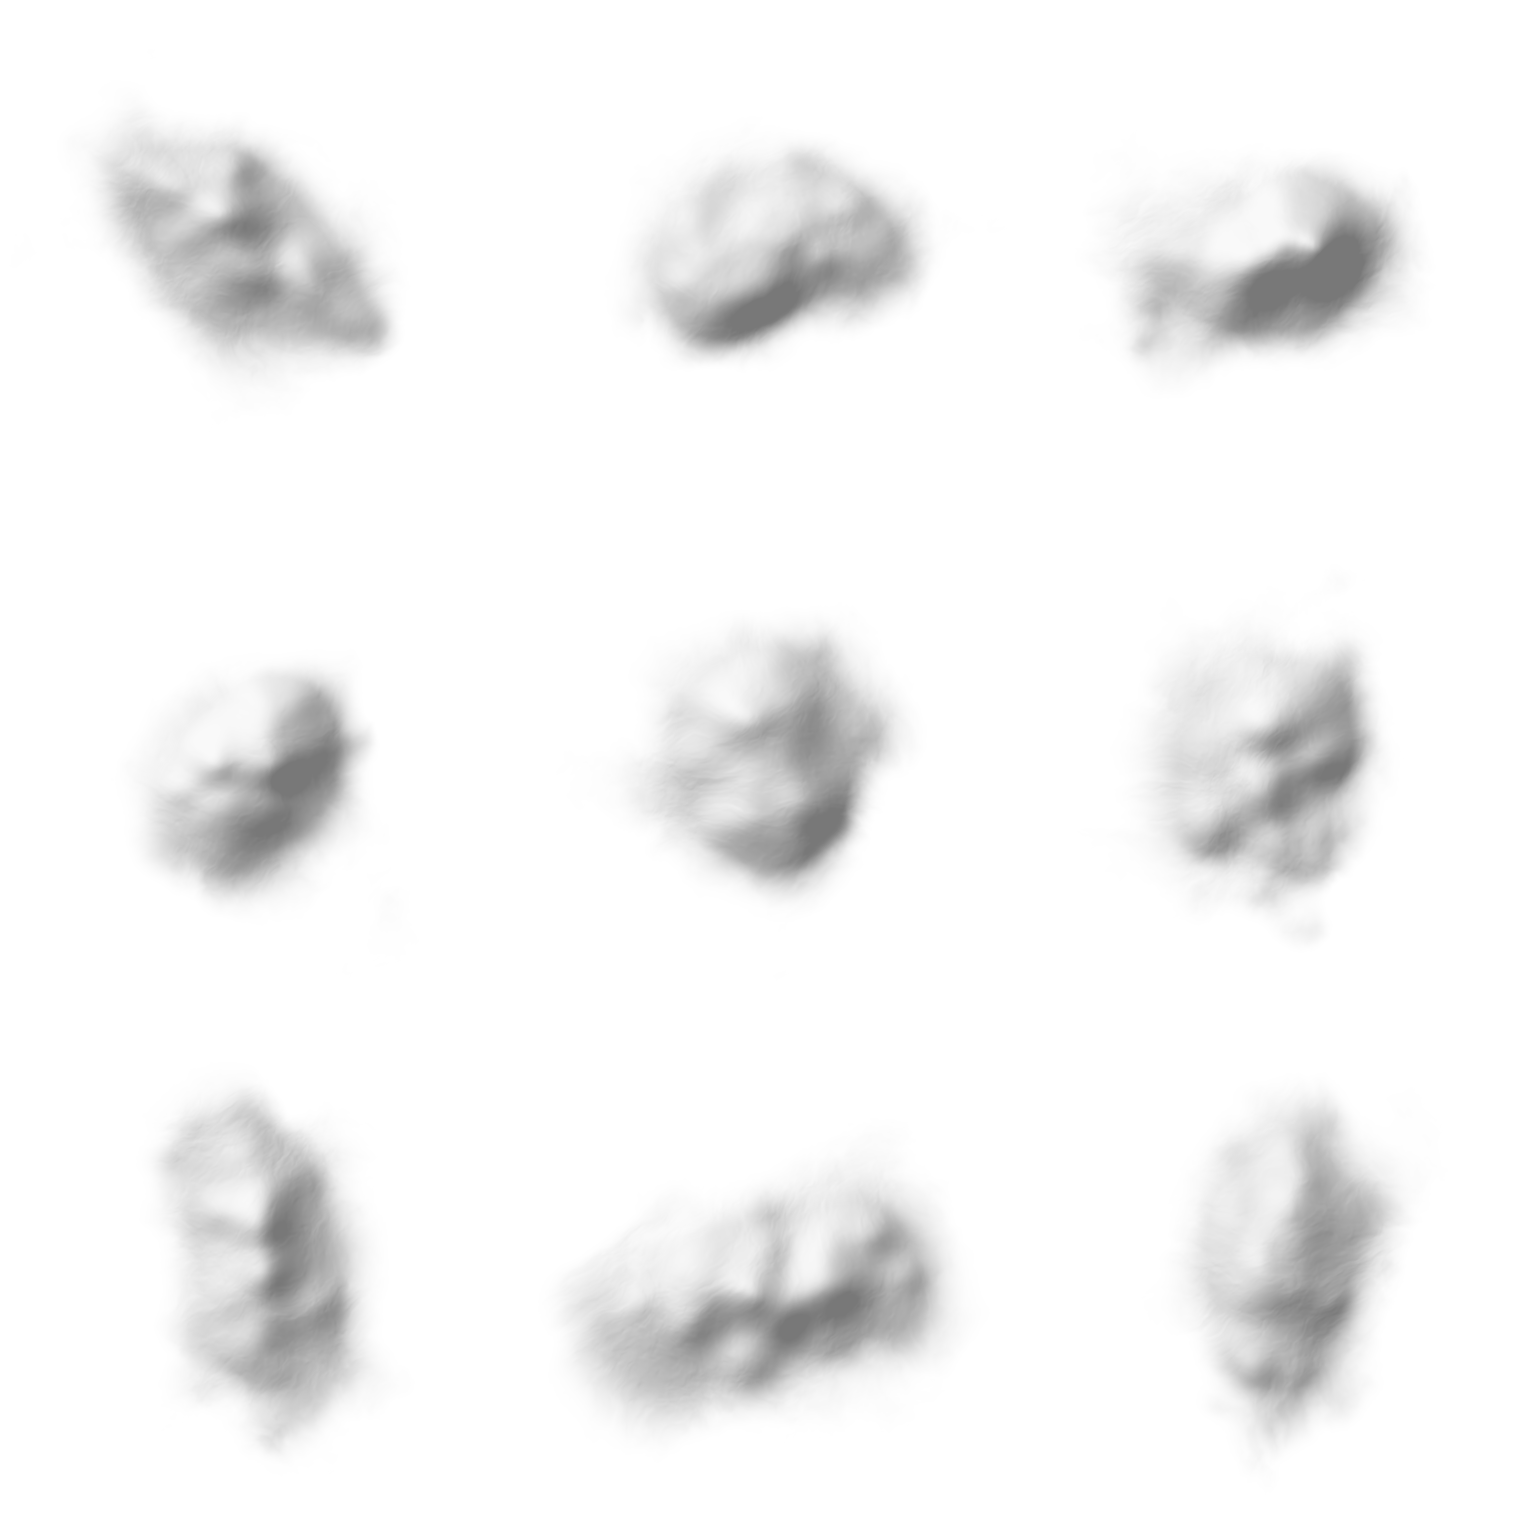
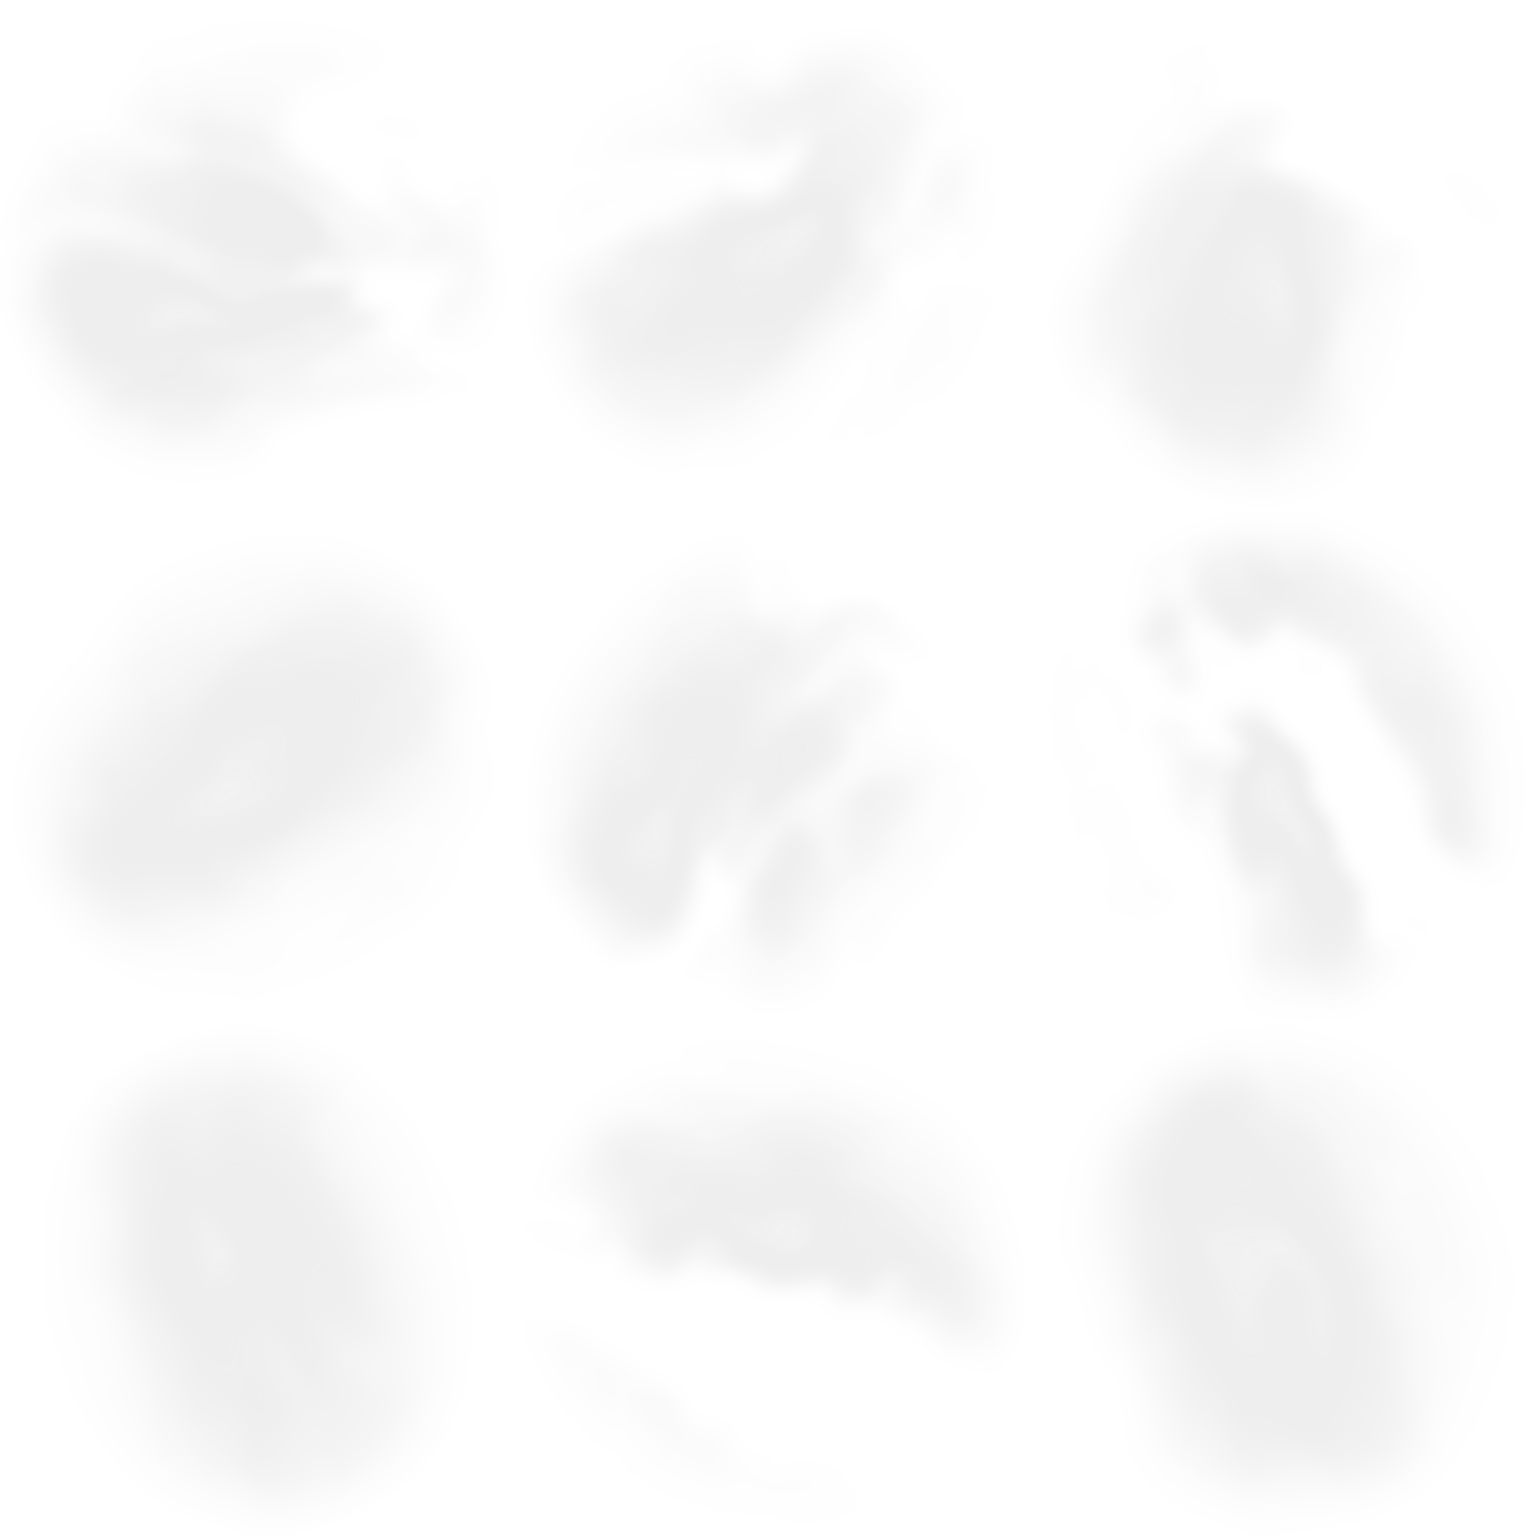
MU2_BGFX: Icarus's clouds as blurred smoky mist -- the user: 'we need them not shapy but more blury and smoky, and they have to be not look like puffs'. cloud_sheet.py gains smoke(): noise warped twice into streaks, a broad soft fade, blurred whole, flat grey; sky_clouds.png is nine of them. Each ba

diff --git a/src/game/world/sky_clouds.cpp b/src/game/world/sky_clouds.cpp
@@ -12,13 +12,15 @@ namespace {
 constexpr float kFrame = 0.04f;        // MU's reference frame, 25 a second
 constexpr float kUnit = 0.01f;         // a MU unit, in metres
 constexpr float kSheetMetres = 2.56f;  // cloudLight.jpg, 256 texels, at Scale 1
-constexpr float kReach = 30.0f;        // metres from the camera's point a bank is drawn
-// Ours, the clouds' look (see the header). A bank of MU's 20 wears kNear of the nine, one of its
-// 10 kFar; each cloud fills about half its cell, so a quad kHalfLow-kHalfHigh metres half wide
-// shows a cloud 3-5 m across, about MU's 4.6-5.1 m puff. The moon's blue-grey, each cloud at
+constexpr float kReach = 24.0f;        // metres from the camera's point a bank is drawn
+constexpr float kFadeOver = 4.0f;      // and faded out over the last of them, so none pops
+// Ours, the clouds' look (see the header). A bank of MU's 20 wears kNear of the nine smoky wisps,
+// one of its 10 kFar; a wisp fades out well inside its cell, so a quad kHalfLow-kHalfHigh metres
+// half wide draws a streak some 6-10 m long, and the banks' wisps run into one another as one
+// smoky layer rather than standing as puffs. The moon's blue-grey, each at
 // kShadeLow-1 of it; drifting at most kDrift radians a second either way.
-constexpr int kNear = 2, kFar = 1;
-constexpr float kHalfLow = 2.6f, kHalfHigh = 4.4f;
+constexpr int kNear = 3, kFar = 2;
+constexpr float kHalfLow = 4.5f, kHalfHigh = 7.5f;
 constexpr float kMoon[3] = {0.52f, 0.60f, 0.76f};
 constexpr float kShadeLow = 0.6f;
 constexpr float kDrift = 0.04f;
@@ -88,7 +90,7 @@ void SkyClouds::open(const std::string& assetDir, const std::string& world,
             puff.half = kHalfLow + unit() * (kHalfHigh - kHalfLow);
             puff.stretch = 1.0f + unit() * 0.35f;
             puff.shade = kShadeLow + unit() * (1.0f - kShadeLow);
-            puff.alpha = 0.08f + unit() * 0.07f;
+            puff.alpha = 0.07f + unit() * 0.06f;
             puff.cell = uint8_t(unit() * float(kCells * kCells)) % uint8_t(kCells * kCells);
             live(puff, 1.5f + unit() * 1.0f);
             puffs_.push_back(puff);
@@ -102,7 +104,7 @@ void SkyClouds::open(const std::string& assetDir, const std::string& world,
             deep.g = unit() * 1000.0f;
             deep.start = unit() * 6.2831853f;
             deep.turn = (unit() * 2.0f - 1.0f) * kDrift * 0.5f;
-            deep.half = 7.0f + unit() * 4.0f;
+            deep.half = 10.0f + unit() * 5.0f;
             deep.stretch = 1.1f + unit() * 0.4f;
             deep.shade = 0.8f + unit() * 0.2f;
             deep.alpha = 0.07f + unit() * 0.05f;
@@ -165,7 +167,9 @@ void SkyClouds::gather(gfx::Effects& effects) const {
     if (bgfx::isValid(cloud_)) {
         for (const Bank& bank : banks_) {
             const float dx = bank.at[0] - near_[0], dz = bank.at[2] - near_[2];
-            if (dx * dx + dz * dz > kReach * kReach) continue;
+            const float far2 = dx * dx + dz * dz;
+            if (far2 > kReach * kReach) continue;
+            const float edge = std::min(1.0f, (kReach - std::sqrt(far2)) / kFadeOver);
             for (uint32_t i = 0; i < bank.count; ++i) {
                 const Puff& one = puffs_[bank.first + i];
                 constexpr float kTau = 6.2831853f;
@@ -200,7 +204,7 @@ void SkyClouds::gather(gfx::Effects& effects) const {
                     sprite.position[1] = y;
                     sprite.position[2] = z;
                     for (int c = 0; c < 3; ++c) sprite.colour[c] = tint[c] * one.shade;
-                    sprite.colour[3] = one.alpha * weight;
+                    sprite.colour[3] = one.alpha * weight * edge;
                     sprite.halfWidth = one.half * one.stretch * breath * wide;
                     sprite.halfHeight = one.half * breath * tall;
                     // Each new cloud at its own turn, so no two changes look alike.

diff --git a/pipeline/cloud_sheet.py b/pipeline/cloud_sheet.py
@@ -10,6 +10,7 @@ colour, the cloud in the alpha, nothing at a cell's border. Ours, not MU's.
 
     python3 pipeline/cloud_sheet.py [out.png]    default source/effects/clouds/void_clouds.png
     python3 pipeline/cloud_sheet.py out.png SEED GRID   GRID x GRID clouds on one sheet
+    python3 pipeline/cloud_sheet.py out.png SEED GRID smoke   smoky wisps instead (smoke())
 
 Icarus's road clouds are nine of these under its own seed (10, its map number), a 3x3 sheet:
 source/effects/clouds/sky_clouds.png, game/world/sky_clouds.h.
@@ -111,15 +112,53 @@ def cloud(rng):
     return np.clip(shade, 0.0, 1.0), np.clip(alpha, 0.0, 1.0)
 
 
+def smoke(rng):
+    """A wisp of smoky mist, not a cloud: no billows, no lit side, no outline. Warped noise
+    stretched into long streaks and curls, faded out by a broad soft oval, and blurred whole,
+    so laid over one another they run together into one smoky layer. Icarus's road (the user,
+    2026-10-06: 'not shapy but more blury and smoky, and they have to be not look like puffs')."""
+    from PIL import ImageFilter
+
+    size = CELL
+    yy, xx = np.mgrid[0:size, 0:size].astype(float)
+    u, v = xx / size - 0.5, yy / size - 0.5
+    angle = rng.uniform(0.0, np.pi)
+    ca, sa = np.cos(angle), np.sin(angle)
+    ru, rv = u * ca + v * sa, -u * sa + v * ca
+    # Streaks: the warp is pulled long along one axis, twice over, as smoke draws out.
+    stretch = rng.uniform(2.0, 3.2)
+    wx, wy = fbm(size, rng, octaves=(2, 4, 8, 16)), fbm(size, rng, octaves=(2, 4, 8, 16))
+    base = fbm(size, rng, octaves=(3, 6, 12, 24, 48), gain=0.55)
+    px = (ru * size / stretch + size / 2) + (wx - 0.5) * 220
+    py = (rv * size + size / 2) + (wy - 0.5) * 220
+    w2x = sample(wx, px, py)
+    w2y = sample(wy, px, py)
+    density = sample(base, px + (w2x - 0.5) * 140, py + (w2y - 0.5) * 140)
+    density = np.clip((density - 0.38) * 2.4, 0.0, 1.0)
+    # The oval: broad and soft, long the way the streaks run, nothing at the cell's edge.
+    oval = np.exp(-((ru / 0.38) ** 2 + (rv / 0.22) ** 2))
+    alpha = density * oval
+    r = np.hypot(u, v) / 0.5
+    alpha *= np.clip((1.0 - r) / 0.25, 0.0, 1.0)
+    picture = Image.fromarray((np.clip(alpha, 0, 1) * 255.0 + 0.5).astype(np.uint8), "L")
+    picture = picture.filter(ImageFilter.GaussianBlur(radius=9))
+    alpha = np.asarray(picture).astype(float) / 255.0
+    alpha = np.clip(alpha / max(alpha.max(), 1e-3), 0.0, 1.0) * 0.9
+    # Flat grey-white: thicker a touch brighter, and nothing lit from a side.
+    shade = 0.78 + 0.18 * alpha
+    return shade, alpha
+
+
 def main():
     out = sys.argv[1] if len(sys.argv) > 1 else os.path.join(
         ROOT, "source/effects/clouds/void_clouds.png")
     seed = int(sys.argv[2]) if len(sys.argv) > 2 else 11  # Blood Castle's map number
     grid = int(sys.argv[3]) if len(sys.argv) > 3 else 2
+    kind = sys.argv[4] if len(sys.argv) > 4 else "cloud"
     rng = np.random.default_rng(seed)
     rgba = np.zeros((CELL * grid, CELL * grid, 4), dtype=np.uint8)
     for k in range(grid * grid):
-        shade, alpha = cloud(rng)
+        shade, alpha = smoke(rng) if kind == "smoke" else cloud(rng)
         row, col = divmod(k, grid)
         tile = rgba[row * CELL:(row + 1) * CELL, col * CELL:(col + 1) * CELL]
         grey = (shade * 255.0 + 0.5).astype(np.uint8)

diff --git a/src/game/world/sky_clouds.h b/src/game/world/sky_clouds.h
@@ -19,10 +19,12 @@
 // shrinks away over a few frames.
 //
 // Ours, the look (the user, 2026-10-06, of MU's puffs: 'look repetetive and not realistical'): MU's
-// banks stand where MU put them, but each wears a few of nine lit clouds seen from above
-// (`sky_clouds`, pipeline/cloud_sheet.py) in place of clouds.jpg -- whose one hot white spot,
-// stamped four hundred times and turning, is what read as repetition -- alpha-blended and shaded
-// in the moon's blue-white, each its own cloud, size, stretch and brightness, drifting slowly
+// banks stand where MU put them, but each wears a few of nine smoky wisps (`sky_clouds`,
+// pipeline/cloud_sheet.py's smoke(): warped streaks, blurred, no outline and no lit side; the
+// user: 'more blury and smoky, and they have to be not look like puffs') in place of clouds.jpg --
+// whose one hot white spot, stamped four hundred times and turning, is what read as repetition --
+// alpha-blended and shaded in the moon's blue-white, each its own wisp, size, stretch and
+// brightness, drifting slowly
 // rather than turning at MU's rate; and under the road a sparse darker deck, so the navy has
 // depth. Thin, so the navy shows through every one (the user: 'much more transparent'), and alive:
 // each wanders a couple of metres about its place, breathes and deforms, and is always becoming

diff --git a/docs/icarus-port.md b/docs/icarus-port.md
@@ -81,7 +81,17 @@ change no longer goes back and forth between two clouds: two layers half a cycle
 weighed sin^2 so they sum to one, each taking a new cloud of the nine (hashed by the cloud and the
 cycle) and a new turn the moment its weight is nought, every 8-16 s; and the outline deforms, the
 width and height swelling 20% out of step. Two shots 8 s apart at 55,75 show different clouds.
-GPU 4.0 ms with other sessions on the machine. **Unmeasured**: the run gave a 7.4 ms GPU frame, but two other `mu2` runs and Siri were on the machine; measure quiet before tuning the reach or the count. Not yet: the in-bank crackles and the far bolts, the flash's cloud mesh, the glints ten metres down, Object11's motes (an object step), the wisps and the dragons.
+GPU 4.0 ms with other sessions on the machine.
+
+**Smoke, not clouds (2026-10-06, the user: 'we need them not shapy but more blury and smoky, and they
+have to be not look like puffs').** `sky_clouds.png` is now nine smoky wisps, `pipeline/cloud_sheet.py
+out SEED GRID smoke` (seed 10, 3x3): noise warped twice and pulled into streaks, a broad soft oval
+fade, the whole blurred, flat grey with no lit side. Each bank wears 3 (types 0-2) or 2 (3-5),
+quads 9-15 m wide at 0.07-0.13 of opaque, and the deck's 20-30 m; 863 wisps in all, so they run
+together as one smoky layer. Drawn within 24 m of the camera's point (was 30), faded over the last
+4 m. Shot at the door and 55,75: a continuous blurred mist, no puffs. **Cost unmeasured**: another
+session's texcook was at 563% CPU and the view timers summed past the frame; the runs read
+5.5-7.3 ms GPU with waiting counted. Measure quiet before the next effects. **Unmeasured**: the run gave a 7.4 ms GPU frame, but two other `mu2` runs and Siri were on the machine; measure quiet before tuning the reach or the count. Not yet: the in-bank crackles and the far bolts, the flash's cloud mesh, the glints ten metres down, Object11's motes (an object step), the wisps and the dragons.
 
 ## The one thing to know first
 
